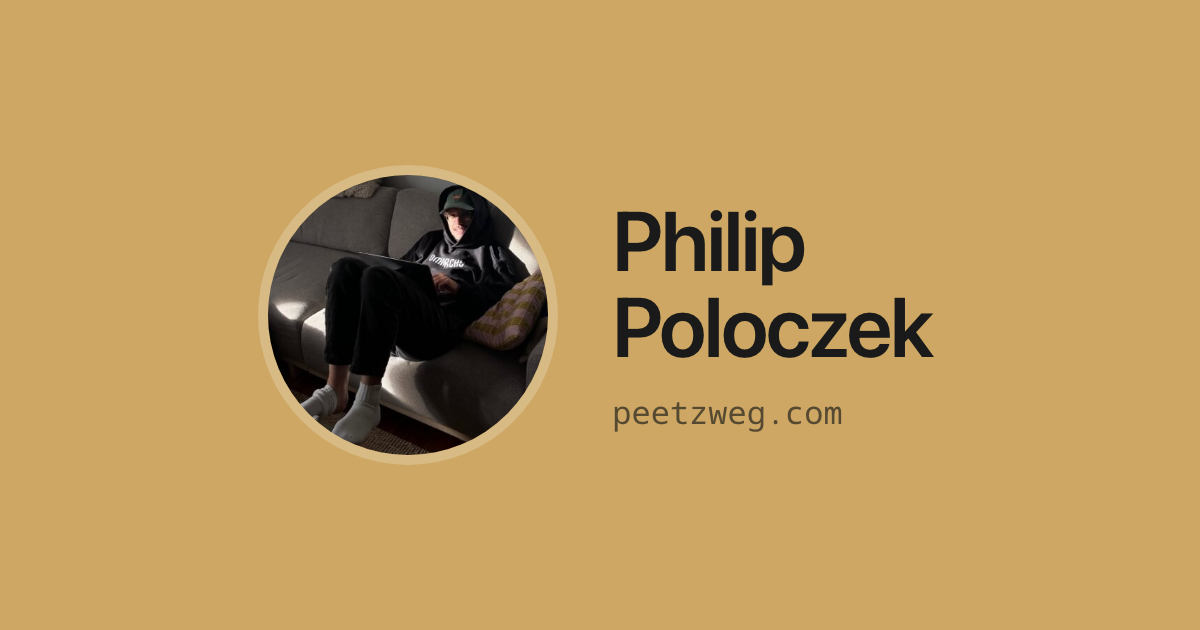
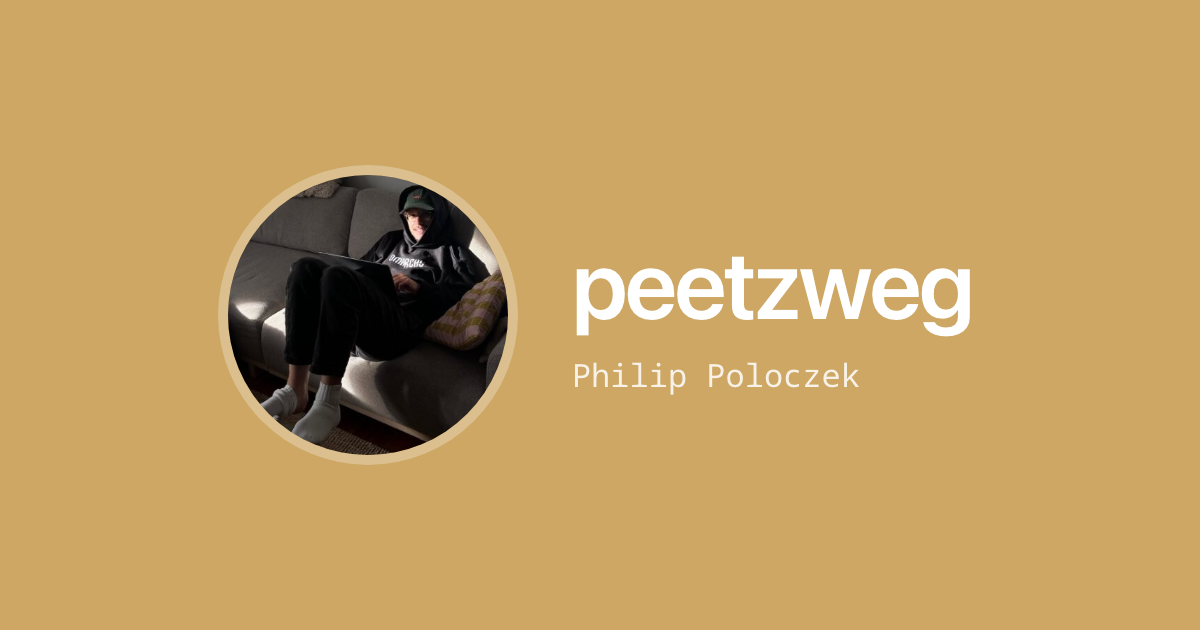
feat: share image says peetzweg, in white on the ochre

Changed region(s): [[0.1542, 0.2413, 0.8325, 0.754]]

diff --git a/apps/www/scripts/og/card.html b/apps/www/scripts/og/card.html
@@ -1,5 +1,5 @@
 <!doctype html>
-<!-- The share image (public/og.png, 1200×630): name, picture and the yellow of the GitHub avatar.
+<!-- The share image (public/og.png, 1200×630): handle, name, picture and the yellow of the GitHub avatar.
      Render with scripts/og/render.sh. -->
 <html lang="en">
   <head>
@@ -25,7 +25,7 @@
         box-sizing: border-box;
         padding: 0 112px;
         background: #cda763;
-        color: #1a1a1a;
+        color: #fff;
         font-family: -apple-system, BlinkMacSystemFont, 'Inter', system-ui, sans-serif;
         -webkit-font-smoothing: antialiased;
       }
@@ -36,12 +36,12 @@
         flex: none;
         border-radius: 50%;
         object-fit: cover;
-        box-shadow: 0 0 0 10px rgb(255 255 255 / 0.22);
+        box-shadow: 0 0 0 10px rgb(255 255 255 / 0.28);
       }
 
       h1 {
         margin: 0;
-        font-size: 84px;
+        font-size: 96px;
         font-weight: 600;
         letter-spacing: -0.025em;
         line-height: 1.02;
@@ -51,15 +51,15 @@
         margin: 22px 0 0;
         font-family: 'Noto Sans Mono', ui-monospace, monospace;
         font-size: 32px;
-        opacity: 0.66;
+        opacity: 0.85;
       }
     </style>
   </head>
   <body>
     <img alt="" src="./avatar.jpg" />
     <div>
-      <h1>Philip<br />Poloczek</h1>
-      <p>peetzweg.com</p>
+      <h1>peetzweg</h1>
+      <p>Philip Poloczek</p>
     </div>
   </body>
 </html>

diff --git a/apps/www/src/seo.ts b/apps/www/src/seo.ts
@@ -9,7 +9,7 @@ export const SITE = {
    * 1200×630, in /public; made from scripts/og/card.html with scripts/og/render.sh. Bump `v` after
    * re-rendering: link previews cache the picture by its URL.
    */
-  image: { src: '/og.png?v=2', width: 1200, height: 630, alt: 'Philip Poloczek, peetzweg.com' },
+  image: { src: '/og.png?v=3', width: 1200, height: 630, alt: 'peetzweg: Philip Poloczek' },
 } as const;
 
 /** Profiles elsewhere, linked from the homepage with rel="me" and listed as `sameAs` for search engines. */

diff --git a/docs/timeline-rework.md b/docs/timeline-rework.md
@@ -43,7 +43,7 @@ Every entry has a page: posts, experiments and collections their existing routes
 - [x] `/feed.xml`: RSS of the newest 50 entries, tweets left out, linked from every page's head.
 - [x] `og:locale`, `profile:*` on the homepage, `article:published_time` on entries, `color-scheme`, Apple touch icon and web manifest.
 - [ ] A downloadable vCard (`.vcf`) only makes sense with contact details (an email); add one once there's an address to publish.
-- [x] New share image: name, X profile picture and the GitHub avatar's ochre (#CDA763), from `apps/www/scripts/og/card.html` (`scripts/og/render.sh`). The old `og.mp4` preview video is gone.
+- [x] New share image: `peetzweg` over `Philip Poloczek` in white, the X profile picture and the GitHub avatar's ochre (#CDA763), from `apps/www/scripts/og/card.html` (`scripts/og/render.sh`). The old `og.mp4` preview video is gone.
 
 ## Tweets and videos
 
